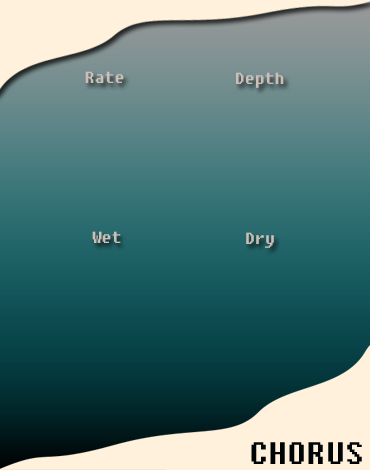
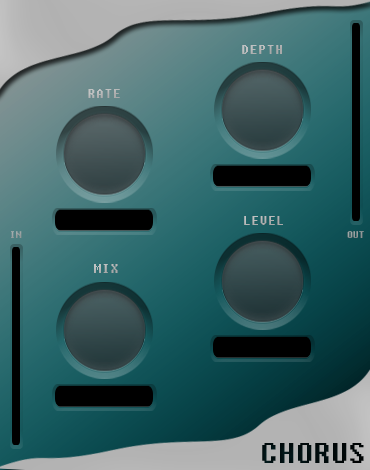
Updated Chorus plugin GUI and assets

diff --git a/plugins/Chorus/PluginEditor.cpp b/plugins/Chorus/PluginEditor.cpp
@@ -3,13 +3,21 @@
 
 //==============================================================================
 ChorusPluginAudioProcessorEditor::ChorusPluginAudioProcessorEditor (ChorusPluginAudioProcessor& p)
-    : AudioProcessorEditor (&p), audioProcessor (p)
+    : AudioProcessorEditor (&p), audioProcessor (p),
+    inputMeter(LevelMeter::Orientations::Vertical, [&]() {return audioProcessor.meterSource.getNextInput();}),
+    outputMeter(LevelMeter::Orientations::Vertical, [&]() {return audioProcessor.meterSource.getNextOutput();})
 { 
     setSize(370, 470);
 
+    graphics.setColour (Slider::textBoxOutlineColourId, juce::Colours::transparentBlack);
+    graphics.setColour (Slider::textBoxBackgroundColourId, juce::Colours::transparentBlack);
+    graphics.setColour (Slider::textBoxTextColourId, juce::Colours::ivory.withAlpha(0.85f));
+
+    setMeters();
+
     //Rate Slider
     rateSlider.reset(new juce::Slider("RateSlider"));
-    rateSlider->setSliderStyle(juce::Slider::Rotary);
+    rateSlider->setSliderStyle(juce::Slider::SliderStyle::RotaryHorizontalVerticalDrag);
     rateSlider->setTextBoxStyle(juce::Slider::TextBoxBelow, false, 80, 20);
     rateSlider->setTextValueSuffix(" Hz");
     rateSlider->setLookAndFeel(&graphics);
@@ -20,47 +28,50 @@ ChorusPluginAudioProcessorEditor::ChorusPluginAudioProcessorEditor (ChorusPlugin
 
     //Depth Slider
     depthSlider.reset(new juce::Slider("DepthSlider"));
-    depthSlider->setSliderStyle(juce::Slider::Rotary);
+    depthSlider->setSliderStyle(juce::Slider::SliderStyle::RotaryHorizontalVerticalDrag);
     depthSlider->setTextBoxStyle(juce::Slider::TextBoxBelow, false, 80, 20);
-    depthSlider->setTextValueSuffix(" %");
     depthSlider->setLookAndFeel(&graphics);
     addAndMakeVisible(depthSlider.get());
 
     depthSliderAtt = std::make_unique<juce::AudioProcessorValueTreeState::
         SliderAttachment>(audioProcessor.apvts, "DEPTH_ID", *depthSlider);
 
-    //Wet Slider
-    wetSlider.reset(new juce::Slider("WetSlider"));
-    wetSlider->setSliderStyle(juce::Slider::Rotary);
-    wetSlider->setTextBoxStyle(juce::Slider::TextBoxBelow, false, 80, 20);
-    wetSlider->setLookAndFeel(&graphics);
-    addAndMakeVisible(wetSlider.get()); 
+    //Mix Slider
+    mixSlider.reset(new juce::Slider("mixSlider"));
+    mixSlider->setSliderStyle(juce::Slider::SliderStyle::RotaryHorizontalVerticalDrag);
+    mixSlider->setTextBoxStyle(juce::Slider::TextBoxBelow, false, 80, 20);
+    mixSlider->setTextValueSuffix(" %");
+    mixSlider->setLookAndFeel(&graphics);
+    addAndMakeVisible(mixSlider.get()); 
     
-    wetSliderAtt = std::make_unique<juce::AudioProcessorValueTreeState::
-        SliderAttachment>(audioProcessor.apvts, "WET_ID", *wetSlider);
+    mixSliderAtt = std::make_unique<juce::AudioProcessorValueTreeState::
+        SliderAttachment>(audioProcessor.apvts, "MIX_ID", *mixSlider);
 
-    //Dry Slider
-    drySlider.reset(new juce::Slider("DrySlider"));
-    drySlider->setSliderStyle(juce::Slider::Rotary);
-    drySlider->setTextBoxStyle(juce::Slider::TextBoxBelow, false, 80, 20);
-    drySlider->setLookAndFeel(&graphics);
-    addAndMakeVisible(drySlider.get());     
+    //Level Slider
+    levelSlider.reset(new juce::Slider("LevelSlider"));
+    levelSlider->setSliderStyle(juce::Slider::SliderStyle::RotaryHorizontalVerticalDrag);
+    levelSlider->setTextBoxStyle(juce::Slider::TextBoxBelow, false, 80, 20);
+    levelSlider->setTextValueSuffix(" dB");
+    levelSlider->setLookAndFeel(&graphics);
+    addAndMakeVisible(levelSlider.get());     
 
-    drySliderAtt = std::make_unique<juce::AudioProcessorValueTreeState::
-        SliderAttachment>(audioProcessor.apvts, "DRY_ID", *drySlider);
+    levelSliderAtt = std::make_unique<juce::AudioProcessorValueTreeState::
+        SliderAttachment>(audioProcessor.apvts, "LEVEL_ID", *levelSlider);
 
-    rateSlider->setBounds(44, 91, 124, 124);
-    depthSlider->setBounds(198, 91, 124, 124);
-    wetSlider->setBounds(44, 252, 124, 124);
-    drySlider->setBounds(198, 252, 124, 124);
+    int knobSize = 133;
+
+    rateSlider->setBounds(40, 107, knobSize, knobSize);
+    depthSlider->setBounds(198, 63, knobSize, knobSize);
+    mixSlider->setBounds(40, 283, knobSize, knobSize);
+    levelSlider->setBounds(198, 234, knobSize, knobSize);
 }
 
 ChorusPluginAudioProcessorEditor::~ChorusPluginAudioProcessorEditor()
 {
     rateSliderAtt = nullptr;
     depthSliderAtt = nullptr;
-    wetSliderAtt = nullptr;
-    drySliderAtt = nullptr;
+    mixSliderAtt = nullptr;
+    levelSliderAtt = nullptr;
 }
 
 //==============================================================================
@@ -73,4 +84,18 @@ void ChorusPluginAudioProcessorEditor::paint (juce::Graphics& g)
 void ChorusPluginAudioProcessorEditor::resized()
 {
     
+}
+
+void ChorusPluginAudioProcessorEditor::setMeters()
+{
+    addAndMakeVisible(&inputMeter);
+    addAndMakeVisible(&outputMeter);
+
+    inputMeter.setMeterColour(juce::Colours::ivory);
+    outputMeter.setMeterColour(juce::Colours::ivory);
+    inputMeter.setBackgroundColour(juce::Colours::transparentBlack);
+    outputMeter.setBackgroundColour(juce::Colours::transparentBlack);
+
+    inputMeter.setBounds(13, getHeight() / 2 + 13, 6, 195);
+    outputMeter.setBounds(getWidth() - 17, 24, 6, 195);
 }

diff --git a/plugins/Chorus/PluginProcessor.cpp b/plugins/Chorus/PluginProcessor.cpp
@@ -86,6 +86,7 @@ void ChorusPluginAudioProcessor::changeProgramName (int index, const juce::Strin
 void ChorusPluginAudioProcessor::prepareToPlay (double sampleRate, int samplesPerBlock)
 {
     chorus.prepare(sampleRate);
+    meterSource.prepare(sampleRate);
 }
 
 void ChorusPluginAudioProcessor::releaseResources()
@@ -121,6 +122,8 @@ void ChorusPluginAudioProcessor::processBlock (juce::AudioBuffer<float>& buffer,
 {
     updateParameters();
 
+    meterSource.updateInputLevel(buffer);
+
     for (auto i = getTotalNumInputChannels(); i < getTotalNumOutputChannels(); ++i)
         buffer.clear (i, 0, buffer.getNumSamples());
 
@@ -128,17 +131,19 @@ void ChorusPluginAudioProcessor::processBlock (juce::AudioBuffer<float>& buffer,
     auto* channelDataRight = buffer.getWritePointer (1);
 
     chorus.process(channelDataLeft, 0, buffer.getNumSamples());
+    buffer.applyGain(GainUtilities<float>::decibelsToGain(*apvts.getRawParameterValue("LEVEL_ID")));
+
+    meterSource.updateOutputLevel(buffer);    
 
     // Do dual mono
     AudioChannelUtilities<float>::doDualMono(channelDataLeft, channelDataRight, 0, buffer.getNumSamples());
-    
 }
 
 void ChorusPluginAudioProcessor::updateParameters()
 {
   chorus.setRate(*apvts.getRawParameterValue("RATE_ID"));
   chorus.setDepth((*apvts.getRawParameterValue("DEPTH_ID")) / 100.0);
-  chorus.setMix(*apvts.getRawParameterValue("WET_ID"));
+  chorus.setMix(*apvts.getRawParameterValue("MIX_ID") / 100.0);
 }
 
 juce::AudioProcessorValueTreeState::ParameterLayout ChorusPluginAudioProcessor::createParameters()
@@ -147,8 +152,8 @@ juce::AudioProcessorValueTreeState::ParameterLayout ChorusPluginAudioProcessor::
 
   parameters.push_back(std::make_unique<juce::AudioParameterFloat>("RATE_ID", "RATE", 0.0f, 10.0, 0.3));
   parameters.push_back(std::make_unique<juce::AudioParameterFloat>("DEPTH_ID", "DEPTH", 0.0f, 100.0, 50.0));
-  parameters.push_back(std::make_unique<juce::AudioParameterFloat>("WET_ID", "WET", 0.0f, 1.0, 0.4));
-  parameters.push_back(std::make_unique<juce::AudioParameterFloat>("DRY_ID", "DRY", 0.0f, 1.0, 0.4));
+  parameters.push_back(std::make_unique<juce::AudioParameterFloat>("MIX_ID", "MIX", 0.0f, 100.0, 40.0));
+  parameters.push_back(std::make_unique<juce::AudioParameterFloat>("LEVEL_ID", "LEVEL", -12.0f, 12.0, 0.0));
 
   return { parameters.begin(), parameters.end() };
 }

diff --git a/plugins/Delay/PluginEditor.cpp b/plugins/Delay/PluginEditor.cpp
@@ -13,16 +13,7 @@ DelayPluginAudioProcessorEditor::DelayPluginAudioProcessorEditor (DelayPluginAud
     graphics.setColour (Slider::textBoxBackgroundColourId, juce::Colours::transparentBlack);
     graphics.setColour (Slider::textBoxTextColourId, juce::Colours::ivory.withAlpha(0.85f));
 
-    addAndMakeVisible(&inputMeter);
-    addAndMakeVisible(&outputMeter);
-
-    inputMeter.setMeterColour(juce::Colours::ivory);
-    outputMeter.setMeterColour(juce::Colours::ivory);
-    inputMeter.setBackgroundColour(juce::Colours::transparentBlack);
-    outputMeter.setBackgroundColour(juce::Colours::transparentBlack);
-
-    inputMeter.setBounds(13, getHeight() / 2 + 13, 6, 195);
-    outputMeter.setBounds(getWidth() - 17, 24, 6, 195);
+    setMeters();
 
     delayLengthSlider.reset(new juce::Slider("DelayLengthSlider"));
     delayLengthSlider->setSliderStyle(juce::Slider::SliderStyle::RotaryHorizontalVerticalDrag);
@@ -88,4 +79,18 @@ void DelayPluginAudioProcessorEditor::paint (juce::Graphics& g)
 void DelayPluginAudioProcessorEditor::resized()
 {
 
+}
+
+void DelayPluginAudioProcessorEditor::setMeters()
+{
+    addAndMakeVisible(&inputMeter);
+    addAndMakeVisible(&outputMeter);
+
+    inputMeter.setMeterColour(juce::Colours::ivory);
+    outputMeter.setMeterColour(juce::Colours::ivory);
+    inputMeter.setBackgroundColour(juce::Colours::transparentBlack);
+    outputMeter.setBackgroundColour(juce::Colours::transparentBlack);
+
+    inputMeter.setBounds(13, getHeight() / 2 + 13, 6, 195);
+    outputMeter.setBounds(getWidth() - 17, 24, 6, 195);
 }

diff --git a/plugins/Chorus/PluginEditor.h b/plugins/Chorus/PluginEditor.h
@@ -2,6 +2,7 @@
 
 #include "PluginProcessor.h"
 #include <utils/custom_juce_classes/GUIGraphics.h>
+#include <utils/custom_juce_classes/LevelMeter.h>
 
 //==============================================================================
 /**
@@ -16,14 +17,18 @@ public:
     void paint (juce::Graphics&) override;
     void resized() override;
 
+    void setMeters();
+
+
 private:
 
-    std::unique_ptr<juce::Slider> rateSlider, depthSlider, wetSlider, drySlider;
-    std::unique_ptr<juce::AudioProcessorValueTreeState::SliderAttachment> rateSliderAtt, depthSliderAtt, wetSliderAtt, drySliderAtt;  
+    std::unique_ptr<juce::Slider> rateSlider, depthSlider, mixSlider, levelSlider;
+    std::unique_ptr<juce::AudioProcessorValueTreeState::SliderAttachment> rateSliderAtt, depthSliderAtt, mixSliderAtt, levelSliderAtt;  
 
     ChorusPluginAudioProcessor& audioProcessor;
 
     GUIGraphics graphics{ GUIGraphics::EffectTypes::Chorus };
+    LevelMeter inputMeter, outputMeter;
 
     JUCE_DECLARE_NON_COPYABLE_WITH_LEAK_DETECTOR (ChorusPluginAudioProcessorEditor)
 };

diff --git a/plugins/Chorus/PluginProcessor.h b/plugins/Chorus/PluginProcessor.h
@@ -3,6 +3,9 @@
 #include <juce_audio_processors/juce_audio_processors.h>
 #include <Chorus.h>
 #include <utils/extras/AudioChannelUtilities.h>
+#include <utils/extras/GainUtilities.h>
+#include <utils/custom_juce_classes/LevelMeterSource.h>
+
 
 //==============================================================================
 /**
@@ -51,6 +54,8 @@ public:
 
     juce::AudioProcessorValueTreeState apvts;
     juce::AudioProcessorValueTreeState::ParameterLayout createParameters();
+
+    LevelMeterSource meterSource;
 
 private:
     //==============================================================================

diff --git a/plugins/Delay/PluginEditor.h b/plugins/Delay/PluginEditor.h
@@ -18,6 +18,8 @@ public:
     void paint (juce::Graphics&) override;
     void resized() override;
 
+    void setMeters();
+
 private:
 
     std::unique_ptr<juce::Slider> delayLengthSlider, feedbackSlider, mixSlider, levelSlider;
